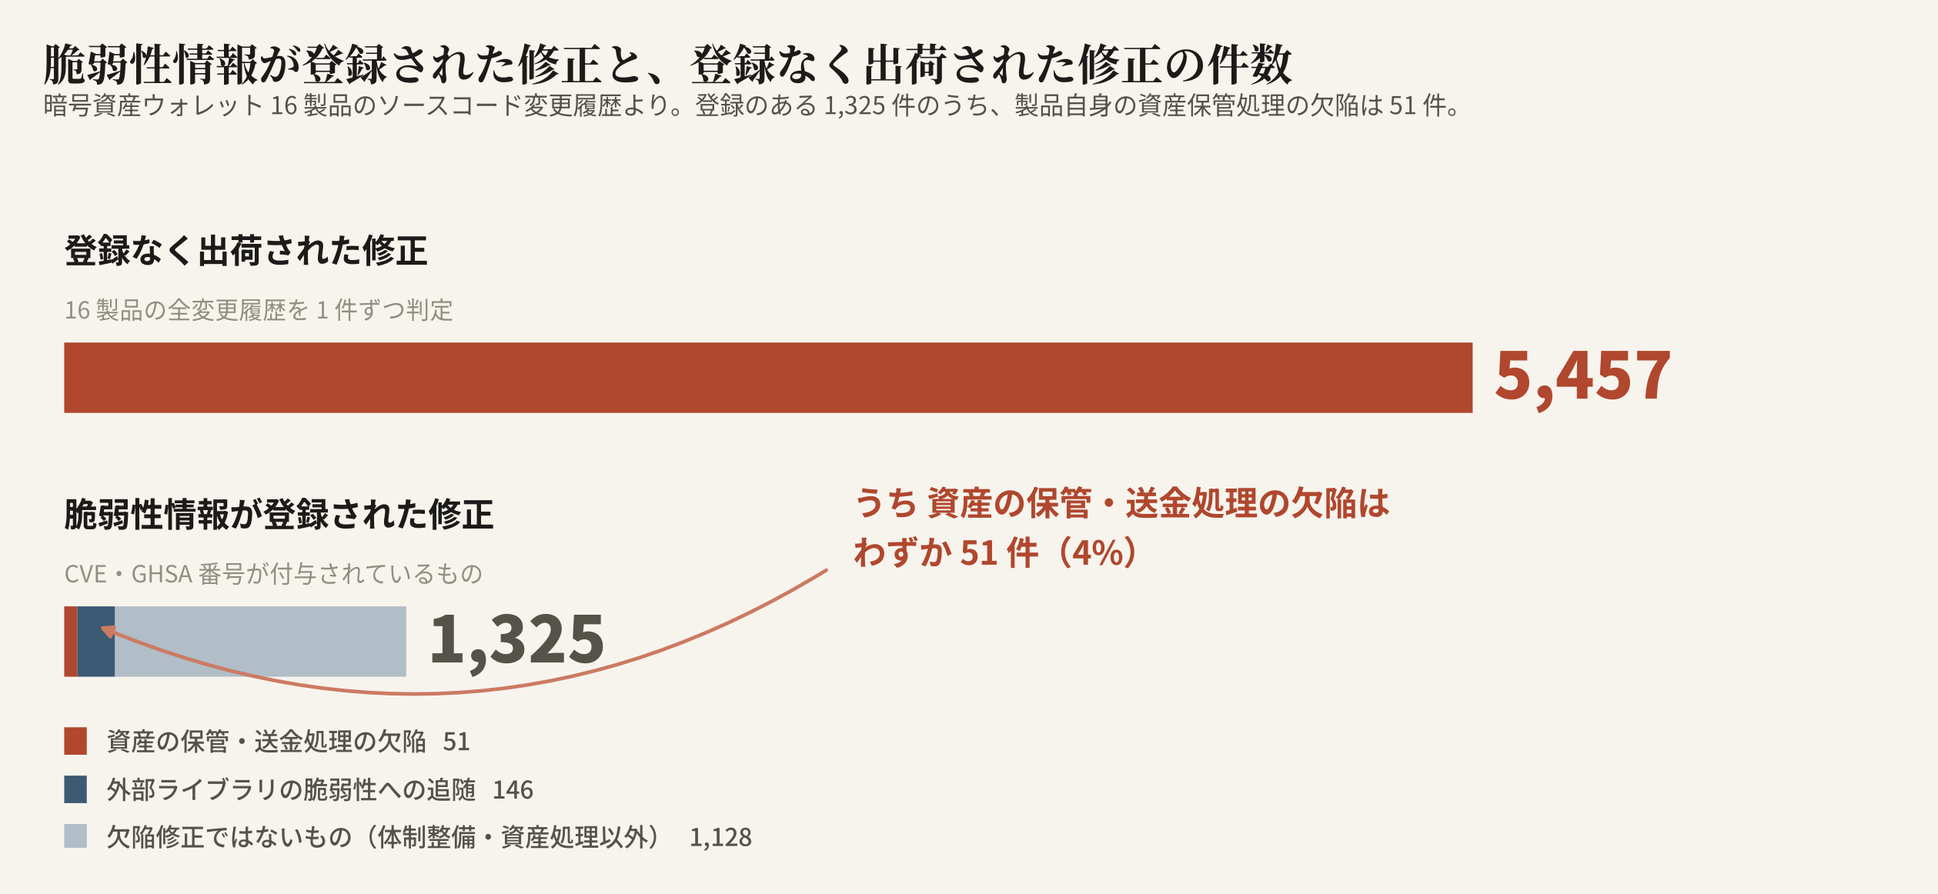
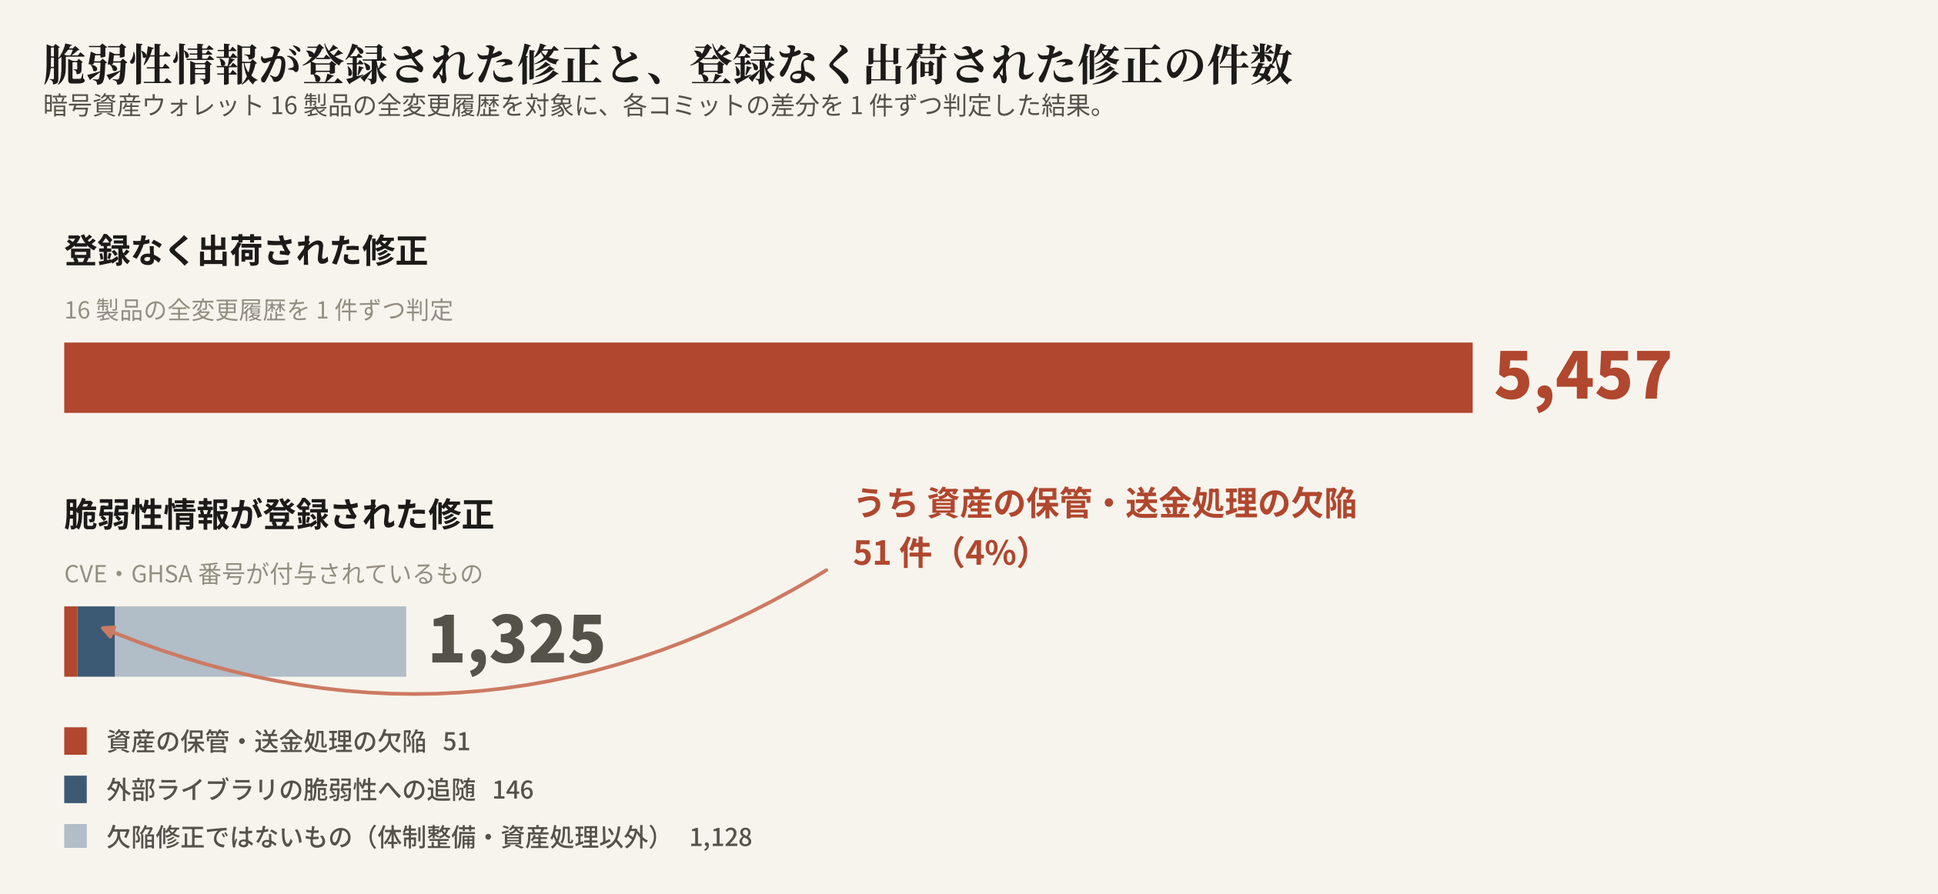
Make fig2 the disclosed-vs-undisclosed comparison it was meant to be
fig2 showed only the undisclosed side, so it could not answer the question
the corpus was built for. It now compares both, ordered by the difference,
with the six mechanisms that survive Fisher's exact test and a Holm
correction across all 22 drawn in full and the other sixteen summed into one
row — at n=194 a 2% cell is three commits, and a grid of them reads as
evidence when it is not.

The finding: three quarters of the disclosed record is a CVE in somebody
else's package (77.3% vs 0.5%). The wallet's own custody logic — what is
signed against what is shown, who may call what, where the key lives — is
where the undisclosed fixes sit, 13-17% each against 1-4%.

This also corrects my own retraction. I had withdrawn the composition
comparison as underpowered; that came from dividing by all 1,325 advisory
rows when 1,131 repair no defect. On the mechanism-bearing rows it is
testable. The specific claim I withdrew — that five mechanisms never appear
in an advisory — stays withdrawn.

fig4 is folded into fig3 as a bracketed column group with a totals row, so
signing-and-display (2,260) against key-material (1,434) is read off the
same table. fig3's row labels no longer collide with their counts, and the
subtitles across all three state scope and unit instead of a takeaway.

Changed region(s): [[0.1859, 0.0929, 0.7434, 0.1549], [0.4337, 0.5886, 0.5886, 0.6506], [0.6815, 0.5577, 0.7125, 0.5886]]

diff --git a/scripts/poster_figures.py b/scripts/poster_figures.py
@@ -114,7 +114,7 @@ def fig_ratio(out="fig1_ratio.png"):
     # 51 against a 4,608 scale is a sliver, so the callout carries it. Parked in the
     # empty upper-right of this row so it clears both the row total and the legend,
     # with the arrow approaching from the right rather than across the subtitle.
-    S.t(ax, W * 0.56, -0.16, f"うち 資産の保管・送金処理の欠陥は\nわずか {conf} 件（4%）",
+    S.t(ax, W * 0.56, -0.16, f"うち 資産の保管・送金処理の欠陥\n{conf} 件（4%）",
         fp="bold", size=15.5, color=S.RUST, va="center", linespacing=1.5)
     S.arrow(ax, (W * 0.545, -0.34), (conf * 2.2, -0.60),
             color=S.RUST_L, lw=1.7, ms=12, rad=-0.26)
@@ -131,8 +131,8 @@ def fig_ratio(out="fig1_ratio.png"):
     fig.subplots_adjust(top=0.775, bottom=0.03, left=0.045, right=0.985)
     S.title_block(fig,
                   "脆弱性情報が登録された修正と、登録なく出荷された修正の件数",
-                  f"暗号資産ウォレット {N_REPO} 製品のソースコード変更履歴より。"
-                  "登録のある 1,325 件のうち、製品自身の資産保管処理の欠陥は 51 件。",
+                  f"暗号資産ウォレット {N_REPO} 製品の全変更履歴を対象に、"
+                  "各コミットの差分を 1 件ずつ判定した結果。",
                   x=0.045, y=0.965)
     return S.save(fig, out)
 
@@ -150,94 +150,114 @@ def fig_ratio(out="fig1_ratio.png"):
 
 
 # --- 2b. what the silent fixes are actually made of ------------------------
-def fig_composition(out="fig2b_composition.png"):
-    """The mechanism breakdown of the silent fixes, grouped by what fails.
+def fig_compare(out="fig2_compare.png"):
+    """Disclosed vs undisclosed composition, ordered by the difference.
 
-    This was a two-column comparison against the advisory side. That column is
-    n=51 — every other advisory row is not a defect fix at all — so it cannot
-    carry a distribution, and putting it beside 4,608 invited reading a sampling
-    artefact as a finding. The comparison of the two populations lives in fig1,
-    where it is a count. Here the question is the one the corpus can answer on
-    its own: what kinds of defect are in wallet code.
+    The earlier version showed only the undisclosed side, which cannot answer the
+    question the corpus was built for. It also once claimed some mechanisms never
+    appear in an advisory — withdrawn, correctly, because it divided by all 1,325
+    advisory rows when 1,131 of them repair no defect, leaving nothing testable.
+
+    On the right denominator — rows on each side whose mechanism was identified —
+    six differences survive Fisher's exact test with a Holm correction across all
+    22 mechanisms. Those six are drawn; the other sixteen are summed into one row
+    rather than dropped, because at n=194 a 2% cell is one or two commits and a
+    grid of them reads as evidence when it is not.
+
+    Grouped bars with the labels in a left column, not a butterfly with labels
+    down the middle: in the butterfly draft every label sat between two rows and
+    could be read as belonging to either.
     """
-    GROUPS = [
-        ("署名と承認", S.RUST, [
-            "signed-differs-from-shown", "signature-verification-gap",
-            "nonce-or-randomness", "curve-point-validation", "replay-scope"]),
-        ("鍵の取り扱い", S.GOLD, [
-            "key-derivation-storage", "key-lifetime-in-memory", "side-channel-fault"]),
-        ("外部からの入力", S.PLUM, [
-            "input-bounds-parsing", "encoding-canonicalization",
-            "type-state-consistency", "code-injection-context"]),
-        ("接続と権限", S.TEAL, [
-            "authorization-check", "origin-session-auth", "missing-authentication",
-            "uri-deeplink-handling", "transport-encryption", "privilege-isolation"]),
-        ("実行環境と対向者", S.OLIVE, [
-            "secure-boot-rollback", "protocol-counterparty", "state-race-concurrency",
-            "dependency-supply-chain"]),
-    ]
-    vc = SIL.mechanism.value_counts()
-    total = len(SIL)
+    from scipy.stats import fisher_exact
 
-    rowsn = sum(len(g[2]) for g in GROUPS) + len(GROUPS)
-    fig, ax = S.new(12.8, 0.40 * rowsn + 2.9, xlim=(-6.2, 17.2),
-                    ylim=(-1.25, rowsn * 0.50 + 0.35))
-    maxv = int(vc.max())
-    SCALE = 15.4 / maxv
+    A = ADV[ADV.mechanism.notna() & (ADV.mechanism != "other")]
+    S_ = SIL[SIL.mechanism != "other"]
+    na, ns = len(A), len(S_)
+    rec = []
+    for m in sorted(set(A.mechanism) | set(S_.mechanism)):
+        a, sc = int((A.mechanism == m).sum()), int((S_.mechanism == m).sum())
+        _, pv = fisher_exact([[a, na - a], [sc, ns - sc]])
+        rec.append({"m": m, "a": a, "s": sc, "p": pv})
+    r = pd.DataFrame(rec).sort_values("p").reset_index(drop=True)
+    k = len(r)
+    r["holm"] = [min(1.0, (k - i) * pv) for i, pv in enumerate(r.p)]
+    sig = r[r.holm < 0.05].copy()
+    rest = r[r.holm >= 0.05]
+    sig["ash"], sig["ssh"] = sig.a / na, sig.s / ns
+    sig = sig.assign(d=sig.ssh - sig.ash).sort_values("d")     # disclosed-heavy first
 
-    y = rowsn * 0.50 - 0.10
-    for gname, gcol, keys in GROUPS:
-        gtot = int(sum(vc.get(k, 0) for k in keys))
-        S.t(ax, -6.1, y, gname, fp="bold", size=14, color=gcol, va="center")
-        S.t(ax, -6.1, y - 0.30, f"{gtot:,} 件 ・ {gtot/total*100:.0f}%", fp="med",
-            size=11.5, color=S.MUTED, va="center")
-        y -= 0.50
-        for k in sorted(keys, key=lambda x: -int(vc.get(x, 0))):
-            v = int(vc.get(k, 0))
-            if not v:
-                continue
-            S.t(ax, -0.35, y, MECH_JA.get(k, k), fp="med", size=11.5, color=S.INK,
-                ha="right", va="center")
-            S.rrect(ax, 0, y - 0.145, max(v * SCALE, 0.04), 0.29,
-                    fc=S.lighten(gcol, 0.20), ec="none", rs=0.03, z=2)
-            S.t(ax, v * SCALE + 0.22, y, f"{v:,}", fp="bold", size=11,
-                color=gcol, va="center")
-            y -= 0.50
-        y -= 0.10
+    HERE = {"dependency-supply-chain": "依存パッケージの脆弱性への追随"}
+    rows = [(HERE.get(x.m, MECH_JA.get(x.m, x.m)), x.ash, x.ssh, x.a, x.s, True)
+            for _, x in sig.iterrows()]
+    rows.append((f"有意差のない他 {len(rest)} 原因（合計）",
+                 rest.a.sum() / na, rest.s.sum() / ns,
+                 int(rest.a.sum()), int(rest.s.sum()), False))
 
-    oth = int(vc.get("other", 0))
-    S.t(ax, -6.1, -0.80,
-        f"原因を特定できなかったもの  {oth:,} 件（{oth/total*100:.1f}%）",
-        fp="med", size=11.5, color=S.MUTED, va="center")
+    n = len(rows)
+    XMAX = 0.86
+    fig, ax = S.new(13.4, 0.92 * n + 2.7, xlim=(-0.72, 1.02), ylim=(-0.95, n + 0.78))
+    sc = XMAX / 0.80
 
-    fig.subplots_adjust(top=0.845, bottom=0.055, left=0.235, right=0.985)
+    for i, (lab, ash, ssh, a, s_, is_sig) in enumerate(rows):
+        y = n - 1 - i
+        S.t(ax, -0.035, y + 0.42, lab, fp="bold" if is_sig else "reg", size=13,
+            color=S.INK if is_sig else S.MUTED, ha="right", va="center")
+        for k2, (v, cnt, col) in enumerate(((ash, a, S.SLATE), (ssh, s_, S.RUST))):
+            yy = y + (0.62 if k2 == 0 else 0.16)
+            c = col if is_sig else S.lighten(col, 0.55)
+            S.rrect(ax, 0, yy - 0.16, max(v * sc, 0.0016), 0.32, fc=c, ec="none",
+                    rs=0.004, z=2)
+            S.t(ax, v * sc + 0.012, yy, f"{v * 100:.1f}%  （{cnt:,} 件）", fp="med",
+                size=11.5, color=c, ha="left", va="center")
+
+    # Legend stacked, not side by side: laid out on one line the second swatch
+    # landed on top of the first entry's "n=194".
+    for row, (col, lab) in enumerate(((S.SLATE, f"公開アドバイザリあり  n={na}"),
+                                      (S.RUST, f"CVE・GHSA に記録なし  n={ns:,}"))):
+        yy = n + 0.44 - row * 0.30
+        S.rrect(ax, -0.60, yy - 0.07, 0.028, 0.15, fc=col, ec="none", rs=0.004, z=2)
+        S.t(ax, -0.556, yy, lab, fp="med", size=12.5, color=col,
+            ha="left", va="center")
+
+    S.t(ax, -0.72, -0.66,
+        "Fisher 正確確率検定、22 原因にわたる Holm 補正後 p<0.05 の 6 原因を掲載。"
+        "割合は各側で原因を特定できた行に対する値。",
+        fp="reg", size=11, color=S.MUTED, ha="left", va="center")
+    fig.subplots_adjust(top=1 - 1.42 / (0.92 * n + 2.7), bottom=0.03,
+                        left=0.035, right=0.985)
     S.title_block(fig,
-                  f"CVE・GHSA に記録のない修正 {N_SIL:,} 件の原因別内訳",
-                  f"暗号資産ウォレット {N_REPO} 製品の全変更履歴より。原因は 23 分類、"
-                  f"うち特定できたものが "
-                  f"{(SIL.mechanism != 'other').mean() * 100:.1f}%。",
-                  x=0.045, y=0.972)
+                  "公開アドバイザリのある修正と、記録のない修正の欠陥原因別構成比",
+                  "上から順に、公開側に偏る原因から記録のない側に偏る原因へ。",
+                  x=0.035, y=1 - 0.34 / (0.92 * n + 2.7))
     return S.save(fig, out)
 
 
-# --- 3. where what breaks in the custody stack -----------------------------
 def fig_heatmap(out="fig3_stack.png"):
-    # Read the categories off the data. A hardcoded list of six silently dropped
-    # node_wallet — monero, btcpay and monero-gui, 682 fixes, 12.5% of the table —
-    # from a figure whose whole claim is "software type against defect type".
+    """Software type against defect location, with the column totals underneath.
+
+    The totals row carries what used to be a separate figure: signing and display
+    defects (1,632 + 628) outnumber key-material ones (1,190 + 304). Two columns
+    to a group, bracketed, so the comparison is read off the same table instead of
+    asserted in a second one.
+    """
     order_c = [c for c in SIL.cat.value_counts().index if c in CAT_JA]
     unknown = sorted(set(SIL.cat.dropna()) - set(CAT_JA))
     if unknown:
         raise SystemExit(f"fig3: no Japanese label for {unknown}; the figure would "
                          f"drop them silently")
-    order_v = ["signing", "key_material", "firmware", "ui_deception",
-               "transport", "contract", "memory", "approval"]
+    # signing beside ui_deception, key_material beside memory: the grouping is the
+    # argument, so adjacency has to encode it.
+    order_v = ["signing", "ui_deception", "key_material", "memory",
+               "firmware", "transport", "contract", "approval"]
     ct = pd.crosstab(SIL.cat, SIL.vuln_class, normalize="index") * 100
     ct = ct.reindex(index=order_c, columns=order_v).fillna(0.0)
     counts = SIL.cat.value_counts().reindex(order_c).fillna(0).astype(int)
+    totals = SIL.vuln_class.value_counts().reindex(order_v).fillna(0).astype(int)
 
     nr, nc = ct.shape
-    fig, ax = S.new(12.8, 6.6, xlim=(-2.05, nc + 0.05), ylim=(-0.15, nr + 0.75))
+    # +1 row of totals below the matrix, +1 band of group brackets above it
+    fig, ax = S.new(13.2, 0.78 * nr + 3.1,
+                    xlim=(-2.35, nc + 0.05), ylim=(-1.60, nr + 1.78))
     for i, cat in enumerate(order_c):
         y = nr - 1 - i
         for j, cls in enumerate(order_v):
@@ -248,60 +268,50 @@ def fig_heatmap(out="fig3_stack.png"):
             if v >= 3:
                 S.t(ax, j + 0.5, y + 0.5, f"{v:.0f}", fp="bold" if v >= 25 else "med",
                     size=13 if v >= 25 else 11,
-                    color=S.PAPER if v >= 40 else S.INK, ha="center", va="center", zorder=4)
-        S.t(ax, -0.12, y + 0.58, CAT_JA[cat], fp="med", size=11, color=S.INK,
-            ha="right", va="center", linespacing=1.3)
-        S.t(ax, -0.12, y + 0.20, f"{counts[cat]:,} 件", fp="reg", size=9.5,
+                    color=S.PAPER if v >= 40 else S.INK, ha="center", va="center",
+                    zorder=4)
+        # Label and its n on ONE line: stacking them put the count of one row
+        # against the second line of the row above it.
+        S.t(ax, -0.14, y + 0.50, CAT_JA[cat].replace("\n", ""), fp="med", size=11.5,
+            color=S.INK, ha="right", va="center")
+        S.t(ax, -0.14, y + 0.14, f"n={counts[cat]:,}", fp="reg", size=9.5,
             color=S.MUTED, ha="right", va="center")
+
     for j, cls in enumerate(order_v):
-        S.t(ax, j + 0.5, nr + 0.14, CLASS_JA[cls], fp="med", size=11, color=S.SOFT,
-            ha="center", va="bottom", linespacing=1.25)
-    fig.subplots_adjust(top=0.775, bottom=0.06, left=0.175, right=0.985)
+        S.t(ax, j + 0.5, nr + 0.16, CLASS_JA[cls].replace("\n", ""), fp="med",
+            size=11.5, color=S.SOFT, ha="center", va="bottom")
+        S.t(ax, j + 0.5, -0.42, f"{int(totals[cls]):,}", fp="bold", size=13,
+            color=S.INK, ha="center", va="center")
+    S.t(ax, -0.14, -0.42, "全体の件数", fp="med", size=11.5, color=S.INK,
+        ha="right", va="center")
+
+    # Group brackets: the fig4 claim, drawn rather than stated. Two lines, because
+    # a bracket spans two columns and one line of this text is twice that wide —
+    # side by side the two labels collided over the middle column.
+    for x0, x1, lab in ((0, 2, "承認内容と異なる署名・表示"),
+                        (2, 4, "鍵素材そのもの")):
+        tot = int(totals[["signing", "ui_deception"]].sum() if x0 == 0
+                  else totals[["key_material", "memory"]].sum())
+        # The line sits well clear of the count: at a 0.11-unit gap it ran through
+        # the numerals' descenders.
+        ax.plot([x0 + 0.06, x1 - 0.06], [nr + 0.88, nr + 0.88], color=S.SLATE,
+                lw=1.6, zorder=3)
+        S.t(ax, (x0 + x1) / 2, nr + 1.44, lab, fp="med", size=12, color=S.SLATE,
+            ha="center", va="center")
+        S.t(ax, (x0 + x1) / 2, nr + 1.16, f"{tot:,} 件", fp="bold", size=13,
+            color=S.SLATE, ha="center", va="center")
+
+    fig.subplots_adjust(top=1 - 1.55 / (0.78 * nr + 3.1), bottom=0.02,
+                        left=0.155, right=0.985)
     S.title_block(fig,
-                  "ソフトウェアの種別と、発生する欠陥の種類の関係",
-                  "各行内での割合（%）。判定した分類器には、"
-                  "どの種別のソフトウェアを読んでいるかを与えていない。",
-                  x=0.045, y=0.965)
-    return S.save(fig, out)
-
-
-# --- 4. what the folk model gets wrong -------------------------------------
-def fig_folk(out="fig4_folk.png"):
-    vc = SIL.vuln_class.value_counts()
-    sign = int(vc.get("signing", 0)) + int(vc.get("ui_deception", 0))
-    keys = int(vc.get("key_material", 0))
-    fig, ax = S.new(12.8, 5.6, xlim=(-sign * 0.02, sign * 1.34), ylim=(-0.48, 2.15))
-
-    rows = [
-        (1.34, sign, S.RUST,
-         "電子署名・画面表示の欠陥",
-         "利用者が承認していない内容に有効な署名が付く／画面が別の内容を表示する",
-         f"署名 {int(vc.get('signing',0)):,} ＋ UI偽装 {int(vc.get('ui_deception',0)):,}"),
-        (0.34, keys, S.SLATE,
-         "鍵素材の欠陥",
-         "秘密鍵や復元用フレーズが漏れる・弱く生成される・メモリに残る", None),
-    ]
-    for y, v, c, head, desc, note in rows:
-        S.t(ax, 0, y + 0.60, head, fp="bold", size=16, color=S.INK, va="center")
-        S.t(ax, 0, y + 0.31, desc, fp="reg", size=11.5, color=S.SOFT, va="center")
-        S.rrect(ax, 0, y - 0.15, v, 0.34, fc=c, ec="none", rs=0.02, z=2)
-        S.t(ax, v + sign * 0.014, y + 0.02, f"{v:,}", fp="black", size=30, color=c,
-            va="center")
-        if note:  # only when it breaks the total down; repeating it is noise
-            S.t(ax, v + sign * 0.014, y - 0.26, note, fp="med", size=10.5,
-                color=S.MUTED, va="center")
-
-    S.t(ax, 0, -0.28, "「復元用フレーズを守れば安全」という一般的な助言は、欠陥の所在と一致しない。",
-        fp="bold", size=14, color=S.RUST, va="center")
-    fig.subplots_adjust(top=0.80, bottom=0.05, left=0.045, right=0.90)
-    S.title_block(fig,
-                  "欠陥の所在の内訳 — 電子署名・画面表示の誤りと、鍵そのものの漏洩",
-                  f"CVE・GHSA に記録のない {len(SIL):,} 件の分類。",
-                  x=0.045, y=0.965)
+                  "ソフトウェア種別ごとの欠陥箇所の分布",
+                  f"CVE・GHSA に記録のない {len(SIL):,} 件。数値は各行内の割合（%）、"
+                  f"3% 未満は非表示。分類器には種別を与えていない。",
+                  x=0.035, y=1 - 0.32 / (0.78 * nr + 3.1))
     return S.save(fig, out)
 
 
 # --- 5. why yield is the wrong sort key ------------------------------------
 if __name__ == "__main__":
-    for f in (fig_ratio, fig_composition, fig_heatmap, fig_folk):
+    for f in (fig_ratio, fig_compare, fig_heatmap):
         print(f())

diff --git a/README.md b/README.md
@@ -61,15 +61,35 @@ annotated with CVE references, a fuzz harness for an already-fixed CVE — plus 
 bugs outside custody, like a server-side cursor leak. The keyword-free sweep of sixteen
 repositories found **5,457** custody fixes. A ratio of 107 : 1.
 
-**What cannot be claimed from this.** An earlier version of this section said five
-defect mechanisms never appear in an advisory. That does not survive. Restricted to
-the 51 advisory rows that are genuinely custody fixes, 7 of 22 mechanisms are
-absent — and drawing 51 rows at random from the silent distribution leaves 7.4
-absent by chance. The mechanism comparison between the two populations is
-underpowered, and the zeros in the earlier version came from using all 1,325
-advisory rows as the denominator when 1,274 of them repair no defect. The count
-comparison above is a full census and stands; the *composition* comparison does
-not.
+### What the two records are made of
+
+The composition comparison does hold, on the right denominator and with a test. Of the
+rows on each side whose defect mechanism could be identified — 194 with an advisory,
+5,124 without — six differences survive Fisher's exact test with a Holm correction
+across all 22 mechanisms:
+
+| mechanism | with an advisory | no CVE/GHSA | Holm p |
+|---|---:|---:|---:|
+| a CVE in a dependency, bumped | **77.3%** (150) | 0.5% (28) | 4e-218 |
+| input length and bounds checking | 4.1% (8) | **17.0%** (870) | 2e-6 |
+| authorisation of the caller | 1.5% (3) | **13.2%** (675) | 3e-7 |
+| what is signed differs from what is shown | 1.5% (3) | **13.1%** (672) | 4e-7 |
+| key derivation and storage | 2.1% (4) | **10.7%** (546) | 2e-4 |
+| key left in memory | 0% (0) | **5.9%** (304) | 4e-4 |
+
+**Three quarters of the disclosed record is somebody else's CVE.** What a wallet
+publishes an advisory for is overwhelmingly a dependency it bumped; its own custody
+logic — the bytes it signs against the bytes it displays, who is allowed to call what,
+where the key lives — is where the undisclosed fixes concentrate. The other sixteen
+mechanisms do not separate the two populations and are not claimed to.
+
+**A correction.** An earlier version of this section claimed five mechanisms never
+appear in an advisory, then withdrew the composition comparison entirely as
+underpowered. The first claim was wrong — 7 of 22 mechanisms are absent from a
+51-row sample where 7.4 absences are expected by chance. The retraction went too
+far: it came from dividing by all 1,325 advisory rows, 1,131 of which repair no
+defect. On the mechanism-bearing rows the comparison is testable, and six differences
+survive correction for testing all 22.
 
 ## What breaks, in order
 
@@ -482,22 +502,28 @@ on it.
 
 ## Figures
 
-`docs/figures/` holds the four figures behind the findings above, regenerated from
+`docs/figures/` holds the three figures behind the findings above, regenerated from
 the committed tables so they cannot drift from the data:
 
 | Figure | Shows |
 |---|---|
 | `fig1_ratio.png` | disclosed advisories against fixes shipped without one |
-| `fig2b_composition.png` | all 5,457 silent fixes by defect mechanism, in five groups |
-| `fig3_stack.png` | software type against the kind of defect that occurs in it |
-| `fig4_folk.png` | signing and display failures against leakage of the key itself |
+| `fig2_compare.png` | defect-mechanism composition of the two records, ordered by the difference, significant rows marked |
+| `fig3_stack.png` | software type against defect location, with column totals and the signing-vs-key grouping |
 
 ```bash
 uv run --with matplotlib --with numpy --with uharfbuzz --with fonttools \
-    --with pandas --with pyarrow python scripts/poster_figures.py
+    --with pandas --with pyarrow --with scipy python scripts/poster_figures.py
 ```
 
-Labels are Japanese, and worded for a reader who has never worked on a wallet:
+There were five figures; there are three. A yield-vs-history scatter was cut for
+describing the collection process rather than the finding, and a figure contrasting
+signing defects with key leakage was folded into `fig3` as a bracketed column group and
+a totals row — the same claim, read off one table instead of asserted in a second.
+
+Titles state what the figure shows and its scope; interpretation goes in the subtitle or
+a note, never in the title. Labels are Japanese, and worded for a reader who has never
+worked on a wallet:
 "custody path" appears as 資産の保管・送金処理, and an advisory as 登録された脆弱性情報 —
 registered, not 公表された (announced). The figures may only claim the record is
 missing, which is all the corpus can see; BTCPay's 2FA bypass was announced loudly
